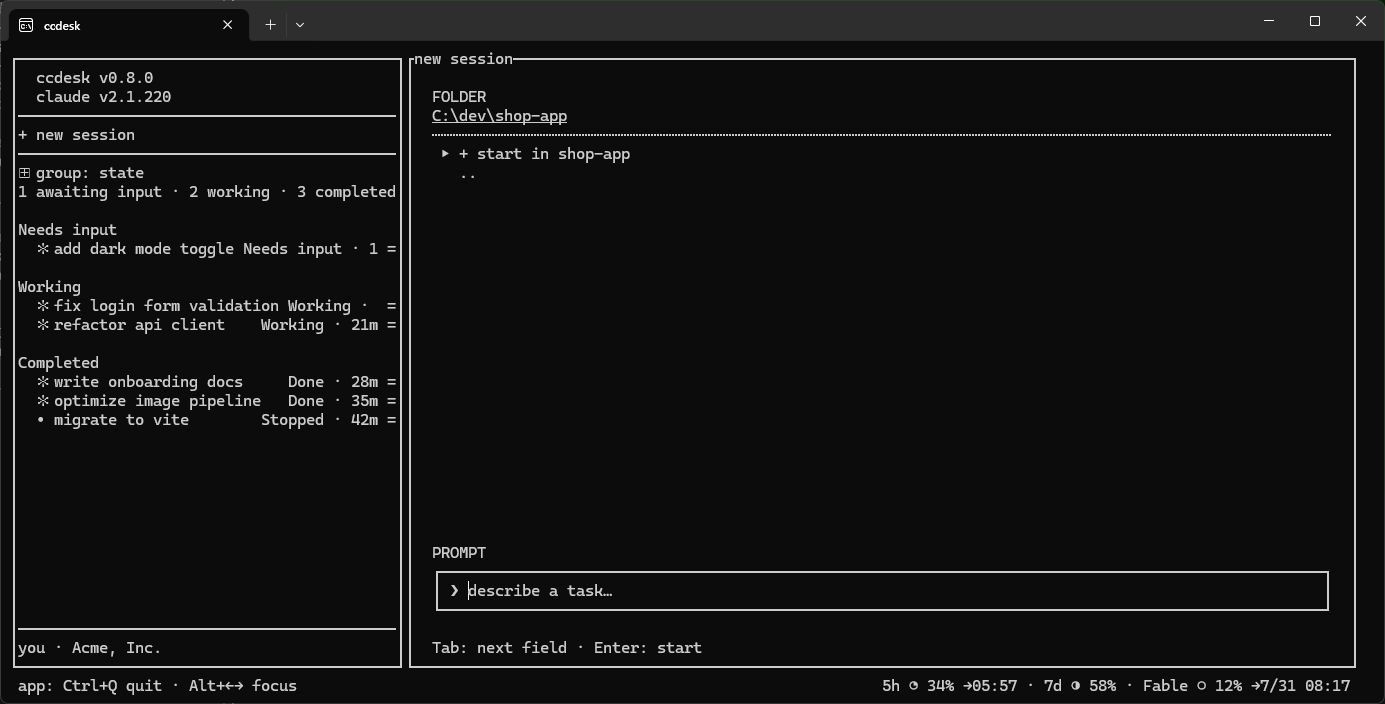
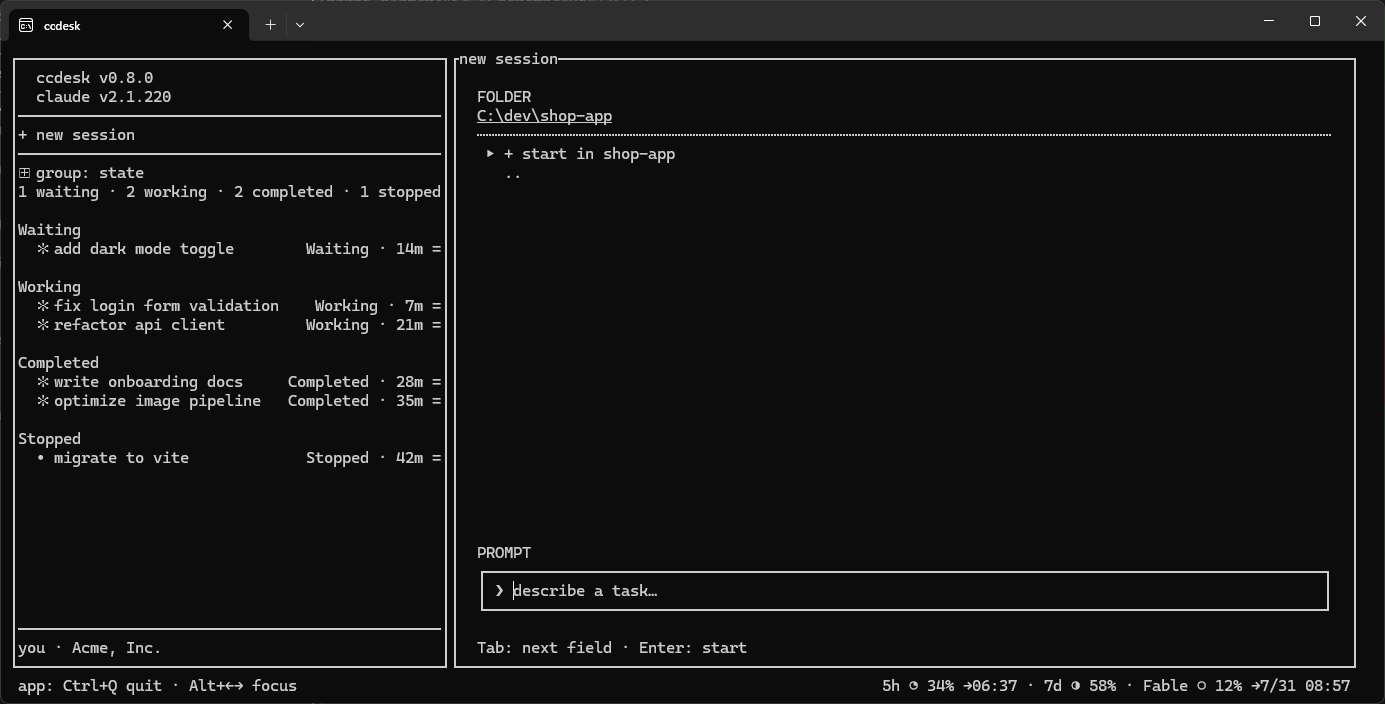
feat(usage): 使用率をターン完了で取り直す
固定 120 秒のポーリングをやめ、**ターンが終わった瞬間**を主のトリガーにした。
使用率が動くのはそのときだけなので、周期で叩き続けるより正確で、何もしていない
間は claude を 1 プロセスも起こさない。

保険の周期は 15 分へ延ばして残した。イベントでは拾えない変化が 2 つあるため:

- 5h 枠は時刻で減る（リセット）。イベント駆動だけだと、リセット後に次のターンが
  終わるまで古い高い数字を出し続ける
- ccdesk の外の消費（別ターミナルの claude・claude.ai・他デバイス）

要求は 2 種類に分けた。クリックは間引かず即取得、ターン完了は 30 秒の最短間隔で
間引く（セッションが何本も走っていれば連発するので、1 回 3 秒のプロセス起動を
そのまま流さない）。

合図は「新しく completed になった行があるか」で、state だけでなく `at` まで比べる
（completed のまま残っている行が毎周「終わった」と言い続けないため）。

スクリーンショットも撮り直した（語彙とサイドバー幅が変わったため）。

Claude-Session: https://claude.ai/code/session_01FFpDAeVrjrLu427wAZKY4k

diff --git a/src/usage.rs b/src/usage.rs
@@ -26,9 +26,32 @@ use crate::claude_format::{
     USAGE_SEVEN_DAY, USAGE_UTILIZATION,
 };
 
-/// 取得周期。5h 枠が 1% 動くのに要する時間に対して十分細かく、かつ
-/// claude プロセスの起動（実測 3 秒前後）が積み上がらない範囲
-const POLL_INTERVAL: Duration = Duration::from_secs(120);
+/// **保険の取得周期。** 主のトリガーはターン完了（[`Trigger::TurnFinished`]）で、
+/// 使用率が動くのはそのときだけ。それでも周期取得を残すのは、イベントでは拾えない
+/// 変化が 2 つあるため:
+///
+/// - **5h 枠は時刻で減る**（リセット）。イベント駆動だけだと、リセット後に次の
+///   ターンが終わるまで古い高い数字を出し続ける
+/// - **ccdesk の外の消費**（別ターミナルの claude・claude.ai・他デバイス）
+///
+/// イベントが主なので周期は長くてよい。何もしていない間に claude を起こす回数が
+/// 2 分ごと → 15 分ごとへ落ちる
+const POLL_INTERVAL: Duration = Duration::from_secs(900);
+
+/// イベント由来の取得の最短間隔。**セッションが何本も走っていればターン完了は
+/// 連発する**ので、1 回 3 秒のプロセス起動をそのまま流さない。
+/// クリック（[`Trigger::Manual`]）はユーザーが明示的に求めた操作なので間引かない
+const EVENT_MIN_INTERVAL: Duration = Duration::from_secs(30);
+
+/// 取得の合図。**間引くかどうかが違う**ので種類を分けてある
+#[derive(Clone, Copy, PartialEq, Debug)]
+enum Trigger {
+    /// ユーザーがフッターの使用率をクリックした。**必ず取得する**
+    Manual,
+    /// どこかのセッションがターンを終えた（使用率が動いた瞬間）。
+    /// [`EVENT_MIN_INTERVAL`] で間引く
+    TurnFinished,
+}
 
 /// 最後の成功からこれを超えたら表示を dim へ落とす。**古さを黙って隠さない**
 /// （取得が続けて失敗しているのに前の値を平然と出すと、固まった数字を信じさせる）
@@ -94,16 +117,21 @@ pub(crate) enum Usage {
 /// 使用率を持ち回る共有スロット（書き手は取得スレッド 1 つ、読み手は供給元）
 pub(crate) type UsageSlot = Arc<Mutex<Usage>>;
 
-/// 取得スレッドを外から動かす口（[`spawn_poller`] が返す）。
-/// **持つのは「今すぐ取り直せ」の 1 つだけ**
-pub(crate) struct UsageRefresh(std::sync::mpsc::Sender<()>);
+/// 取得スレッドを外から動かす口（[`spawn_poller`] が返す）
+pub(crate) struct UsageRefresh(std::sync::mpsc::Sender<Trigger>);
 
 impl UsageRefresh {
-    /// その場で取り直させる。取得スレッドが待ちから即座に起きる。
+    /// **クリックされた。** その場で取り直させる（間引かない）。
     /// 連打しても取得は 1 回に畳まれる（[`spawn_poller`] が溜まった要求を捨てる）
     pub(crate) fn request(&self) {
         // スレッドが死んでいれば送れないだけ（画面は最後の値を出し続ける）
-        let _ = self.0.send(());
+        let _ = self.0.send(Trigger::Manual);
+    }
+
+    /// **どこかのセッションがターンを終えた。** 使用率が動いた瞬間なので取り直すが、
+    /// 連発するので [`EVENT_MIN_INTERVAL`] で間引く
+    pub(crate) fn note_turn_finished(&self) {
+        let _ = self.0.send(Trigger::TurnFinished);
     }
 }
 
@@ -112,9 +140,9 @@ impl UsageRefresh {
 /// 取得結果は共有スロットへ書くだけで、画面へ伝わるのは供給元
 /// （[`crate::source::LiveSource::usage`]）経由。
 ///
-/// **待ちは `recv_timeout` 1 つ**にしてある: 周期の待ちと手動要求の待ちを
-/// 同じ場所で受けるので、「旗を短い sleep で覗きに行く」形にならない
-/// （クリックしてから最大 2 分待たされる形も避けられる）。
+/// **待ちは `recv_timeout` 1 つ**にしてある: 保険の周期と 2 種類の要求を同じ場所で
+/// 受けるので、「旗を短い sleep で覗きに行く」形にならない（クリックしてから
+/// 周期いっぱい待たされる形も避けられる）。
 ///
 /// 取得そのものにタイムアウトは持たない: `claude agents --json` の周期取得
 /// （[`crate::poll`]）と同じ扱いで、待ちに入るのはこのスレッドだけなので TUI は
@@ -124,7 +152,7 @@ pub(crate) fn spawn_poller(
     dirty: Arc<std::sync::atomic::AtomicBool>,
     fetching: Arc<std::sync::atomic::AtomicBool>,
 ) -> UsageRefresh {
-    let (tx, rx) = std::sync::mpsc::channel::<()>();
+    let (tx, rx) = std::sync::mpsc::channel::<Trigger>();
     std::thread::spawn(move || {
         loop {
             // 取得中であることを出す（1 回 3 秒前後かかるので、押したことが
@@ -133,6 +161,7 @@ pub(crate) fn spawn_poller(
             dirty.store(true, std::sync::atomic::Ordering::Relaxed);
             let next = fetch();
             fetching.store(false, std::sync::atomic::Ordering::Relaxed);
+            let fetched_at = std::time::Instant::now();
 
             let mut guard = slot.lock().unwrap_or_else(std::sync::PoisonError::into_inner);
             // 取得に失敗しても、一度取れた値は捨てない（1 回の失敗で使用率行が
@@ -145,19 +174,36 @@ pub(crate) fn spawn_poller(
             // 値が据え置きでも描き直させる（取得中の表示を戻す・古さは時間で変わる）
             dirty.store(true, std::sync::atomic::Ordering::Relaxed);
             // **枠の概念が無いアカウントでは周期取得をやめる。** 恒久的に取れないので
-            // 2 分ごとに claude を起こす意味が無い。手動要求だけは受け続ける
+            // 保険の周期で claude を起こす意味が無い。要求だけは受け続ける
             // （アカウントを切り替えたときに戻ってこられる経路を残す）
             let permanent = matches!(*guard, Usage::Unavailable);
             drop(guard);
 
-            if permanent {
-                if rx.recv().is_err() {
+            // 次に取得する合図を待つ。**間引きはここ 1 箇所**
+            loop {
+                let received = if permanent {
+                    rx.recv().map_err(|_| ())
+                } else {
+                    match rx.recv_timeout(POLL_INTERVAL.saturating_sub(fetched_at.elapsed())) {
+                        Ok(trigger) => Ok(trigger),
+                        // 保険の周期が来た
+                        Err(std::sync::mpsc::RecvTimeoutError::Timeout) => break,
+                        Err(std::sync::mpsc::RecvTimeoutError::Disconnected) => Err(()),
+                    }
+                };
+                let Ok(trigger) = received else {
                     return; // 送り手が居なくなった（TUI 終了）
+                };
+                match trigger {
+                    // ユーザーが押した ＝ 間引かない
+                    Trigger::Manual => break,
+                    // ターン完了は連発するので、直前の取得から間を置く。
+                    // 間引いた分は待ち直すだけ（取得は次の合図か保険の周期で起きる）
+                    Trigger::TurnFinished if fetched_at.elapsed() >= EVENT_MIN_INTERVAL => {
+                        break
+                    }
+                    Trigger::TurnFinished => continue,
                 }
-            } else if let Err(std::sync::mpsc::RecvTimeoutError::Disconnected) =
-                rx.recv_timeout(POLL_INTERVAL)
-            {
-                return;
             }
             // 待っている間に溜まった要求は捨てる（連打の回数だけ取得しない）
             while rx.try_recv().is_ok() {}

diff --git a/src/hooks.rs b/src/hooks.rs
@@ -142,6 +142,20 @@ impl HookStates {
         self.0.get(id).map(|entry| entry.at)
     }
 
+    /// 前回の写しと比べて、**新しくターンを終えた行があるか**。
+    ///
+    /// 使用率はターンが終わった瞬間に動くので、これが取得の合図になる
+    /// （[`crate::usage`]。周期で叩き続けるより、変わった直後に 1 回叩くほうが
+    /// 正確で、何もしていない間は claude を 1 プロセスも起こさない）。
+    ///
+    /// **`at` まで比べる**のが要点: state だけを見ると、`completed` のまま残っている
+    /// 行が毎周「終わった」と言い続ける
+    pub(crate) fn any_turn_finished_since(&self, previous: &Self) -> bool {
+        self.0.iter().any(|(id, entry)| {
+            entry.state == COMPLETED && previous.0.get(id).map(|p| p.at) != Some(entry.at)
+        })
+    }
+
     /// その行が**未読**か（行頭の `●`）。
     ///
     /// **claude が何か言ったのが、最後にその行を開いた後か**で決まる。材料は
@@ -497,6 +511,34 @@ mod tests {
             assert_eq!(state_of(event), Some(state), "the receiver doesn't know {event}");
         }
         assert_eq!(state_of("PreToolUse"), None, "received an unregistered hook");
+    }
+
+    /// **ターン完了は「新しく `completed` になった」だけを合図にする。**
+    ///
+    /// `completed` のまま残っている行を state だけで見ると、毎周「終わった」と
+    /// 言い続けて使用率の取得が止まらない（`at` まで比べる理由）
+    #[test]
+    fn only_a_fresh_completion_counts_as_a_finished_turn() {
+        let none = HookStates::default();
+        let working = HookStates::from_entries([("s", WORKING, 1_000)]);
+        let finished = HookStates::from_entries([("s", COMPLETED, 2_000)]);
+
+        // 動いていた行が終わった ＝ 合図
+        assert!(finished.any_turn_finished_since(&working));
+        // 何も知らなかったところに完了が現れた ＝ 合図（起動直後）
+        assert!(finished.any_turn_finished_since(&none));
+        // 同じ完了が残っているだけ ＝ 合図にしない
+        assert!(!finished.any_turn_finished_since(&finished));
+        // 完了が無ければ合図にならない
+        assert!(!working.any_turn_finished_since(&none));
+
+        // **同じ行が次のターンを終えたら、また合図になる**（`at` が進むため）
+        let again = HookStates::from_entries([("s", COMPLETED, 3_000)]);
+        assert!(again.any_turn_finished_since(&finished));
+
+        // 別の行が終わっても合図（複数セッションを見ている）
+        let other = HookStates::from_entries([("s", COMPLETED, 2_000), ("t", COMPLETED, 2_500)]);
+        assert!(other.any_turn_finished_since(&finished));
     }
 
     /// **`Notification` は「ユーザーが動くまで進まない」通知だけを拾う。**

diff --git a/src/app.rs b/src/app.rs
@@ -1326,7 +1326,13 @@ fn adopt_switched_session(app: &mut App, previous: &SessionId, next: &SessionId,
 /// hook の `at` になったことの裏返し: `UserPromptSubmit` はユーザー自身の打鍵でも
 /// 飛ぶので、見ている行の記録が進んだらその場で既読を合わせる
 fn adopt_hook_states(app: &mut App) {
-    app.hook_states = app.source.hook_states();
+    let previous = std::mem::replace(&mut app.hook_states, app.source.hook_states());
+    // **ターンが終わった行があれば使用率を取り直す。** 使用率が動くのはこの瞬間だけで、
+    // 周期で叩き続けるより正確なうえ、何もしていない間は claude を 1 プロセスも
+    // 起こさない（間引きは供給元の側。[`crate::usage`]）
+    if app.hook_states.any_turn_finished_since(&previous) {
+        app.source.note_turn_finished();
+    }
     let shown: Option<SessionId> = app.shown_session().cloned();
     if let Some(id) = shown {
         mark_read(app, &id);

diff --git a/src/source.rs b/src/source.rs
@@ -175,6 +175,10 @@ pub(crate) trait DataSource: Send + Sync {
     /// 取得しない供給元（撮影用）では何もしない
     fn refresh_usage(&self) {}
 
+    /// **どこかのセッションがターンを終えた。** 使用率が動いた瞬間なので取り直す
+    /// （実際に取るかは供給元が間引く。[`crate::usage::spawn_poller`]）
+    fn note_turn_finished(&self) {}
+
     /// 起動時に復元するウィンドウ状態
     fn window_state(&self) -> WindowState;
 
@@ -416,6 +420,12 @@ impl DataSource for LiveSource {
     fn refresh_usage(&self) {
         if let Some((_, refresh)) = &self.usage {
             refresh.request();
+        }
+    }
+
+    fn note_turn_finished(&self) {
+        if let Some((_, refresh)) = &self.usage {
+            refresh.note_turn_finished();
         }
     }
 

diff --git a/README.md b/README.md
@@ -86,8 +86,8 @@ feature is gone, and ccdesk deletes the file (and its lock) once at startup,
 noting it in the error log.
 
 ccdesk passes the official `--settings` flag to the `claude` sessions it starts
-to install turn-level hooks that report each session's state (working / waiting
-for input / done) back to ccdesk — that is what the sidebar shows. The hooks
+to install turn-level hooks that report each session's state (waiting / working /
+completed / stopped) back to ccdesk — that is what the sidebar shows. The hooks
 run `ccdesk hook <event>`, so no external scripts are installed, and they write
 only to `~/.ccdesk/hook-states.json`. **`hooks` is the only key ccdesk injects**:
 Claude Code merges hooks across settings sources, so yours keep running, and no
@@ -101,10 +101,14 @@ rate-limit usage at the bottom right: the 5-hour window, the 7-day window, and
 each per-model weekly window, with time until reset. Narrow terminals drop the
 reset times first, then the per-model windows.
 
-**Click it to refresh right away** instead of waiting for the next poll — the
-numbers dim while the fetch is in flight. Otherwise ccdesk refreshes every two
-minutes, and stops polling entirely on accounts that have no rate-limit windows
-(a click still re-checks, in case you signed in elsewhere).
+It refreshes **when a session finishes a turn** — the moment the numbers actually
+move — so nothing runs while you are idle. **Click it to refresh right away**;
+the numbers dim while the fetch is in flight. A slow 15-minute poll backs that up,
+because two things no event can report: the 5-hour window resetting on a timer,
+and usage from outside ccdesk (another terminal, claude.ai, another device).
+Bursts of finished turns collapse into one fetch, and accounts with no rate-limit
+windows stop polling entirely (a click still re-checks, in case you signed in
+elsewhere).
 
 ccdesk gets the numbers by running the official `claude` CLI headless for a
 moment and sending one `get_usage` request over the Agent SDK control channel.
